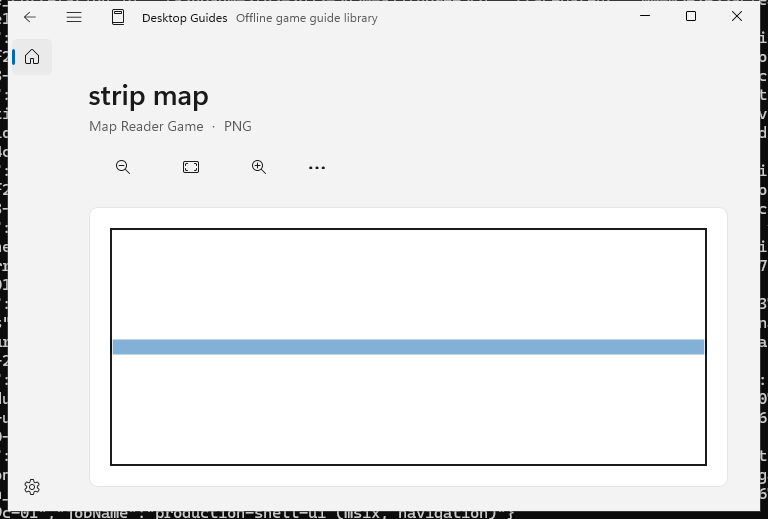
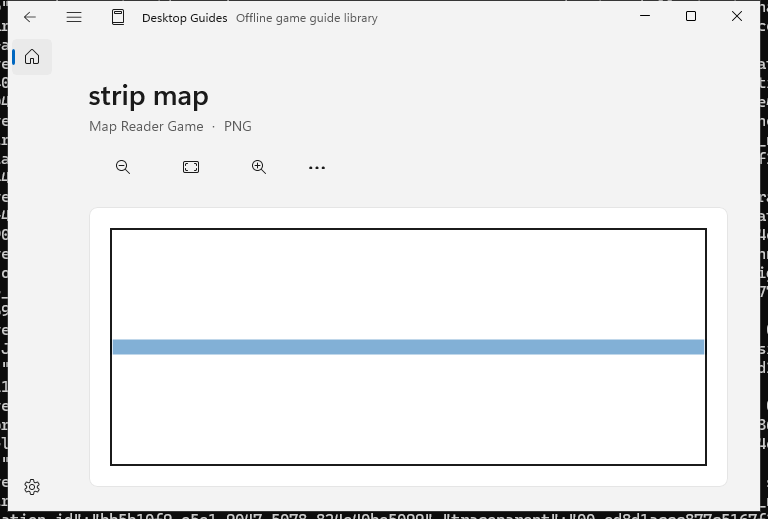
docs(p2): record image maps PR b
- The design's status, the decoder choice with its CI timings, and the
  PR b verification record
- The #136 row in the P2 results
- Status pages: image maps PR a merged, PR b in review, PR c next
- The final maps-reader screenshots

diff --git a/docs/p2/t21-2-image-maps-design.md b/docs/p2/t21-2-image-maps-design.md
@@ -1,7 +1,8 @@
 # T21.2 image maps: design
 
 Status: approved in conversation, 19 October 2026. PR a (import maps and
-the Maps section) in review; see the [PR a verification record](#pr-a-verification-record).
+the Maps section) merged (#136); see the [PR a verification record](#pr-a-verification-record).
+PR b (the reader) in review; see the [PR b verification record](#pr-b-verification-record).
 
 ## Intent
 
@@ -245,6 +246,13 @@ These would make it a failure even if it works:
   - The builder chooses the decoder (WIC via `BitmapDecoder` with a
     transform, or another) and the tile size. It records the choice
     here.
+
+    **The choice (PR b):** WinRT `BitmapDecoder`, since a trimmed build
+    rules out hand-written COM interop. The overview is one Fant-scaled
+    decode. Then level 0 is decoded in bands of 512 rows through
+    `BitmapTransform.Bounds`, into a 2×2 box pyramid of 512-pixel PNG
+    tiles. For the 15456 × 10304 test map on the CI host, the overview
+    took 0.4–0.8 s and its 875 tiles 6.1–9.3 s.
   - **A tile cache on disk is allowed.** PNG decodes from the top down,
     so a big map's levels and tiles would cost a full decode on every
     open. They may be saved once to the same local cache folder as the
@@ -382,3 +390,83 @@ See the [PR a plan](t21-2-image-maps-import-plan.md).
   that failed first.
 - **Deferred:** map removal and in-batch duplicate copy still say
   "guide"; focus after cancelling Remove map. Both are polish for PR c.
+
+## PR b verification record
+
+See the [PR b plan](t21-2-image-maps-reader-plan.md).
+
+- **Core,** each test failing first and then passing on the host:
+  - `ReaderLocationCodecTests`: `ImagePosition` round trips, refused
+    bounds, never an estimate, and a changed map with no restore
+    candidates;
+  - `ReaderCommandPolicyTests`: a map shows Zoom and Fit map only;
+  - `ProgressCoordinatorTests`: tracking without an open still saves;
+  - `MapViewportTests`:
+    - fit (at most 4×), zoom about a point, the 1.25 step, the 1% snap;
+    - pan clamping, arrow steps, a strip centred vertically, and resize
+      keeping the centre;
+    - places round-tripping, the level, visible tiles, and a tile plan
+      within the budget on a 4K view;
+  - `MapPyramidTests`: levels stopping at the 2048 overview, a strip's
+    single tile row, every tile emitted once, 2×2 averaging and odd
+    edges;
+  - `MapTileMemoryTests` and `MapSessionDiagnosticsTests`.
+
+  The full suite passes, 1498/1498.
+- **Infrastructure:**
+  - `MapTileStoreTests`:
+    - a committed build is complete;
+    - an interrupted build, a missing level folder or overview, another
+      size, or an unreadable manifest is incomplete;
+    - a rebuild replaces the old cache;
+    - prune keeps a hash another guide uses;
+    - trim drops the least recently opened, never a kept map;
+    - a bad hash builds no path;
+  - `MapHashesAreThoseOfImageGuidesOnly`.
+
+  The full suite passes, 917/917.
+- **Production:** it builds with 0 warnings, with warnings as errors.
+- **Installed:** the `navigation` group passes on both lanes (runs
+  39210506699, MSIX, and 39210509779, portable), with the new
+  `maps-reader` mode:
+  - the 15456 × 10304 map showed fitted in 764 ms on its first, uncached
+    open;
+  - eight zoom steps, then panning by the arrow keys and by a drag, drew
+    15 tiles from level 2 within the budget;
+  - Back and reopen showed the same view from the cache in 13 ms;
+  - Ctrl+0 fitted, and the fitted view was saved;
+  - the 20000-pixel strip displayed, its largest surface 1250 pixels;
+  - removing it removed its cache.
+
+  Afterwards no map had an open time or an estimate, and Resume was still
+  the text guide.
+
+  Screenshots: [maps-reader-zoomed](evidence/ci/t21-2/maps-reader-zoomed.png)
+  and [maps-reader-strip](evidence/ci/t21-2/maps-reader-strip.png).
+- **Found by the installed runs:** each was a fault in the mode, not the
+  reader.
+  - It sat inside the import block, so it ran no steps.
+  - An integer `[Math]::Min(4, …)` expected a zoom of 0.
+  - A map still selected after Back didn't reopen when selected again.
+  - The short Maps list hadn't made its third row.
+- **Found by the final review:**
+  - Visible tiles on a 1440p or 4K display could exceed the tile budget
+    and evict one another forever. The reader now gives up the margin,
+    then detail, to stay within the budget.
+  - The mode didn't check that panning moved the view. Once it did, it
+    showed that the drag never panned: the probe moved the cursor with
+    `SetCursorPos`, which sends the app no pointer moves. The probe now
+    sends mouse moves, and the reader applies a drag's release point, so
+    a drag whose moves were merged still pans. In the final runs the
+    arrow keys and the drag each moved the view.
+
+  All are fixed; the tile budget with tests that failed first.
+- **Deferred:**
+  - a changed map's place restores exactly rather than fitting;
+  - a part-deleted cache can read as complete;
+  - a cache-build failure blames the original file;
+  - one `XamlRoot.Changed` handler is left per open;
+  - a restore's old build can overlap the new queue;
+  - an open during a build reads the overview from `.building`;
+  - the build's peak memory is about 150 MiB, not 64;
+  - the smoke has no final `else`.

diff --git a/docs/progress.md b/docs/progress.md
@@ -55,7 +55,7 @@ the [work breakdown](work-breakdown.md).
 | P1 T17.2 release CI, piece D | Merged through [PR #104](https://github.com/ilya-slalom/desktop-guides/pull/104) on 14 October 2026, merge commit `928407c`. T17.2 is complete. | CI runs the whole installed provider journey (settings, search and add, artwork, refresh, leak scans, removal) on both lanes against recorded fixtures. A Preview build answers provider requests from them with no network; the Public build doesn't contain the path. A host run with real keys stays the check for real-API drift. CI run [38419706291](https://github.com/ilya-slalom/desktop-guides/actions/runs/38419706291) passed. See the [verification record](p1/t17-2-fake-provider-design.md#t172-piece-d-verification-record). |
 | P1 T17.1 release identity and signing | Merged in [#82](https://github.com/ilya-slalom/desktop-guides/pull/82) and [#83](https://github.com/ilya-slalom/desktop-guides/pull/83), merge commit `1640576`. | The app has the public identity `IlyaLissoboi.DesktopGuides`, self-signed tag-driven draft releases, and an upgrade gate. The first release, v1.0.0, was drafted by release run [38127264654](https://github.com/ilya-slalom/desktop-guides/actions/runs/38127264654). PR b added the pinned release certificate (thumbprint `BAA638E4DCFA4E1C5A2F65E3DC838BA7B3B59EB6`), a `vX.Y.Z` tag workflow that produces a signed, timestamped MSIX, the portable zip, checksums and a manifest as a draft pre-release, and a `public-upgrade` CI gate (run [38112108659](https://github.com/ilya-slalom/desktop-guides/actions/runs/38112108659)). A dry run (run [38120091727](https://github.com/ilya-slalom/desktop-guides/actions/runs/38120091727)) passed; the tag release then ran. See the [verification record](p1/t17-1-release-identity-design.md#t171-verification-record). |
 | P1 first usable release | 54 of 54 tasks merged. M0 to M4 are complete. M5 has T20.1, T20.2, T15.4, T15.1 and T16.1 merged; M6 has T17.2 (release CI) merged, T17.4 (size pass) merged in #106, #107 and #108, and T17.3 (release-candidate runs) complete: v1.0.1 passed on Windows 11 x64 (#110). | [P1 technical design](p1-technical-design.md) and [dependency plan](p1/implementation-plan.md) cover 16 stories and 54 tasks: S03–S17 plus S20. P1 is complete; publishing the v1.0.1 draft is the user's step. There is no clean-install claim: the runtime-free VM check is T17.8 in the final milestone. See the [tested matrix](p1/release/tested-matrix.md). T17.2 release CI is complete (#90, #91, #95, #100, #104); T17.4 distribution size pass is complete (#106, #107, #108). The accessibility audit (T16.2, T16.3) and the Microsoft Store submission (T17.5) moved to the [final milestone](work-breakdown.md#final-milestone--accessibility-audit-and-store-submission) after P3. Toolkit `SettingsCard`, `MetadataControl`, `HeaderedContentControl` and `Segmented` are adopted and centrally pinned; `GridSplitter` and `RichSuggestBox` map to P2 tasks T18.2 and T22.2. The [installed E2E procedure](p1/e2e-testing.md) uses an interactive scheduled task for the signed MSIX and UI workflows. S20 manual export/restore is in P1 because an uninstall removes package local data. |
-| P2 reader depth and local ownership | M7 complete (T18.1: #113, #116 and #117). M8 complete (T18.2: #118 and #119). M9 complete (T19.1: #126 and #129). M10 complete (T19.2: #130 and #131). T21.1 complete (#132): T21.2 is limited to multi-page HTML and image maps. T21.2 multi-page HTML complete (#133, #134 and #135): multi-page HTML is supported. T21.2 image maps designed ([design](p2/t21-2-image-maps-design.md), 19 October 2026); PR a (import maps and the Maps section) in review. | [P2 technical design](p2-technical-design.md) and [implementation plan](p2/implementation-plan.md) cover S18 (search and contents, including PDF), S19 (bookmarks and TXT reflow) and S21 (a format survey first, then one design per format): 6 tasks in M7–M10 plus S21. Next: T21.2 image maps PR b (the reader). |
+| P2 reader depth and local ownership | M7 complete (T18.1: #113, #116 and #117). M8 complete (T18.2: #118 and #119). M9 complete (T19.1: #126 and #129). M10 complete (T19.2: #130 and #131). T21.1 complete (#132): T21.2 is limited to multi-page HTML and image maps. T21.2 multi-page HTML complete (#133, #134 and #135): multi-page HTML is supported. T21.2 image maps designed ([design](p2/t21-2-image-maps-design.md), 19 October 2026); PR a (import maps and the Maps section) merged (#136); PR b (the reader) in review. | [P2 technical design](p2-technical-design.md) and [implementation plan](p2/implementation-plan.md) cover S18 (search and contents, including PDF), S19 (bookmarks and TXT reflow) and S21 (a format survey first, then one design per format): 6 tasks in M7–M10 plus S21. Next: T21.2 image maps PR c (the Maps pop-up). |
 
 M1 is complete; its last task, T17.1, is in the [P1 plan](p1/implementation-plan.md).
 [PR #8](https://github.com/ilya-slalom/desktop-guides/pull/8) merged its

diff --git a/docs/p2/results.md b/docs/p2/results.md
@@ -4,6 +4,7 @@ Merged P2 work, in the [P1 results](../p1/results.md) format.
 
 | PR | Merged | Commit | Task | Final CI run | Core | Infra | Record | Caveats |
 | --- | --- | --- | --- | --- | --- | --- | --- | --- |
+| [#136](https://github.com/ilya-slalom/desktop-guides/pull/136) | 2026-10-19 | `7faddc7` | T21.2 maps (PR a) | [39184327759](https://github.com/ilya-slalom/desktop-guides/actions/runs/39184327759) | 1444 | 901 | [t21-2-image-maps-design](t21-2-image-maps-design.md#pr-a-verification-record) | Import maps and the Maps section. Three faults found by the installed runs, three by the final review, all fixed before merge. |
 | [#135](https://github.com/ilya-slalom/desktop-guides/pull/135) | 2026-10-18 | `c0addf1` | T21.2 (PR c) | [39133678906](https://github.com/ilya-slalom/desktop-guides/actions/runs/39133678906) | 1396 | 876 | [t21-2-multipage-html-design](t21-2-multipage-html-design.md#pr-c-verification-record) | Contents, search and bookmarks across pages; multi-page HTML supported. Passed on the first attempt. |
 | [#134](https://github.com/ilya-slalom/desktop-guides/pull/134) | 2026-10-18 | `07af06e` | T21.2 (PR b) | [39119742284](https://github.com/ilya-slalom/desktop-guides/actions/runs/39119742284) | 1373 | 872 | [t21-2-multipage-html-design](t21-2-multipage-html-design.md#pr-b-verification-record) | Reading a multi-page guide. Passed on the first attempt. |
 | [#133](https://github.com/ilya-slalom/desktop-guides/pull/133) | 2026-10-18 | `59810e0` | T21.2 (PR a) | [39092396556](https://github.com/ilya-slalom/desktop-guides/actions/runs/39092396556) | 1344 | 869 | [t21-2-multipage-html-design](t21-2-multipage-html-design.md#pr-a-verification-record) | Multi-page HTML import, storage and backup. Passed on the first attempt. |

diff --git a/docs/p2/implementation-plan.md b/docs/p2/implementation-plan.md
@@ -1,6 +1,6 @@
 # P2 implementation plan and exit gates
 
-Status: M7 complete, 15 October 2026 (T18.1: #113, #116 and #117). M8 complete, 16 October 2026 (T18.2: #118 and #119). M9 complete, 16 October 2026 (T19.1: #126 and #129). M10 complete, 17 October 2026 (T19.2: #130 and #131). T21.1 complete, 17 October 2026 (#132): T21.2 is limited to multi-page HTML and image maps. T21.2 multi-page HTML complete (#133, #134 and #135): multi-page HTML is supported. T21.2 image maps designed ([design](t21-2-image-maps-design.md), 19 October 2026); PR a (import maps and the Maps section) in review. P1 is complete (54 of 54 tasks; v1.0.1
+Status: M7 complete, 15 October 2026 (T18.1: #113, #116 and #117). M8 complete, 16 October 2026 (T18.2: #118 and #119). M9 complete, 16 October 2026 (T19.1: #126 and #129). M10 complete, 17 October 2026 (T19.2: #130 and #131). T21.1 complete, 17 October 2026 (#132): T21.2 is limited to multi-page HTML and image maps. T21.2 multi-page HTML complete (#133, #134 and #135): multi-page HTML is supported. T21.2 image maps designed ([design](t21-2-image-maps-design.md), 19 October 2026); PR a (import maps and the Maps section) merged (#136); PR b (the reader) in review. P1 is complete (54 of 54 tasks; v1.0.1
 published). This plan orders the **3 P2 stories and 6 tasks** in the
 [work breakdown](../work-breakdown.md#p2--reader-depth-and-local-ownership).
 
